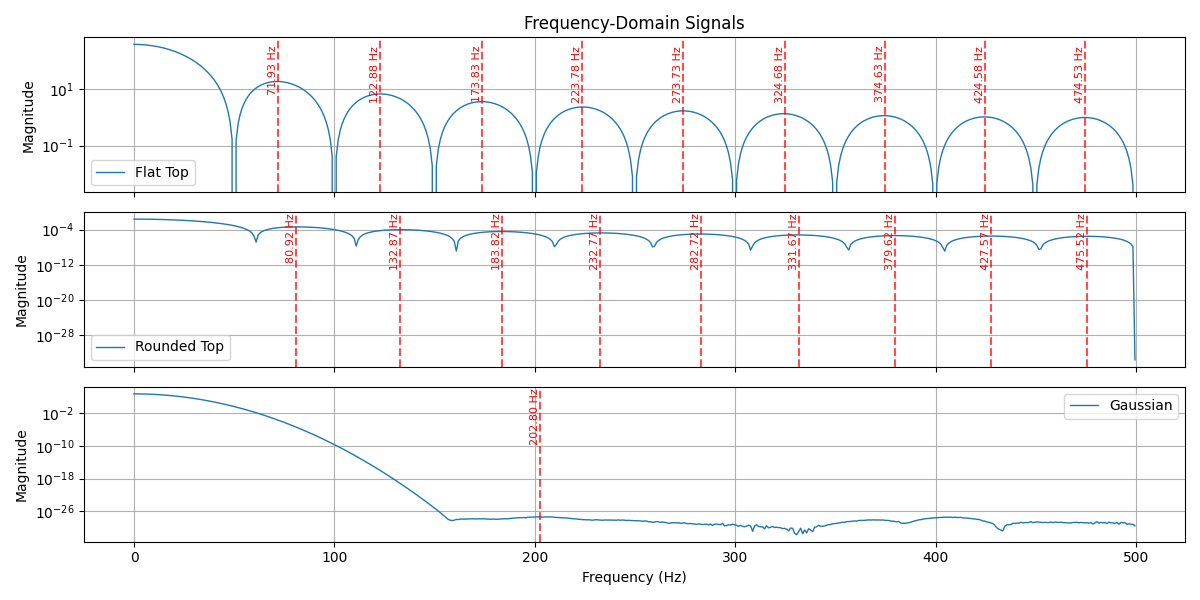
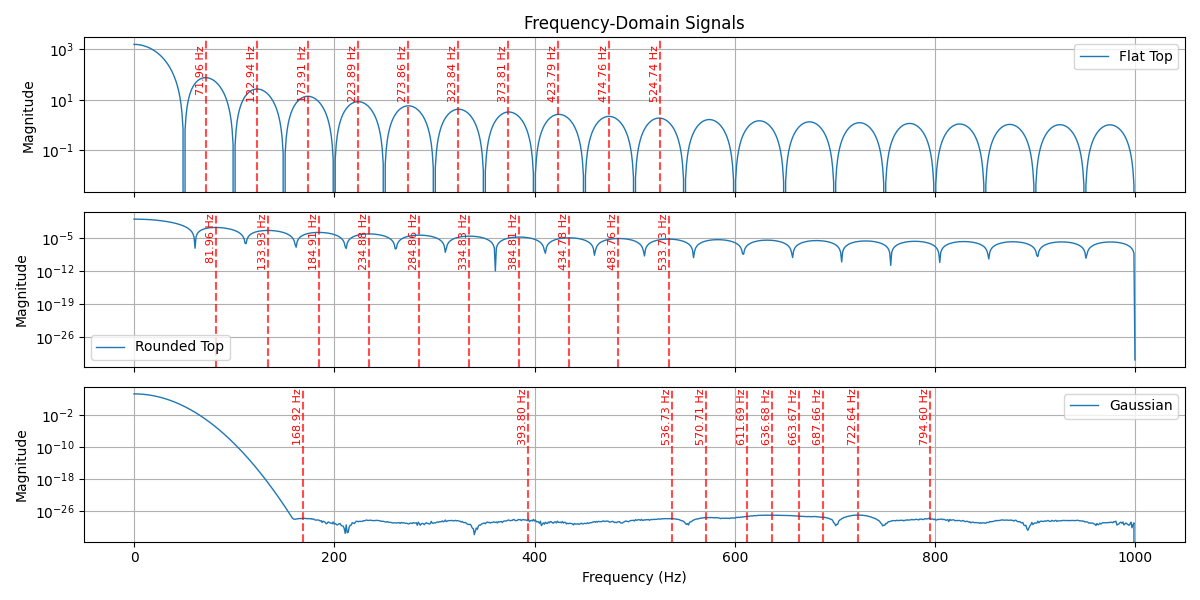
ex12p4

diff --git a/exercise12/piano_displace.py b/exercise12/piano_displace.py
@@ -23,26 +23,25 @@ def create_initial_string(l=1.0, n=1000, shape='flat', d=0.0):
     ## Create initial deformation
     y = np.zeros_like(x)
     if shape == 'flat':
-        y[np.abs(x) <= w/2] = A
+        y[np.abs(x - d) <= w/2] = A
     elif shape == 'round':
-        mask = np.abs(x) <= w/2
-        y[mask] = np.sqrt((w/2)**2 - x[mask]**2)
+        mask = np.abs(x - d) <= w/2
+        y[mask] = np.sqrt((w/2)**2 - (x[mask]-d)**2)
     elif shape == 'gaussian':
-        y = A * np.exp(-(4 * np.log(2) * x**2) / w**2)
+        y = A * np.exp(-(4 * np.log(2) * (x-d)**2) / w**2)
     else:
         raise ValueError("Invalid shape. Choose from 'flat', 'round', or 'gaussian'.")
     ## Switch into dimensionless units z = x / l
-    z = (x - d) / l
+    z = x / l
     
     ## Return as Nx2 array
     return np.column_stack((z, y))
 
 
 ## Create initial string shapes
-flat_string = create_initial_string(l=1.0, n=1000, shape='flat', d=-0.4)
-round_string = create_initial_string(l=1.0, n=1000, shape='round', d=0.4)
-gaussian_string = create_initial_string(l=1.0, n=1000, shape='gaussian', d=-0.3)
-
+##flat_string = create_initial_string(l=1.0, n=2000, shape='flat', d=0.0)
+##round_string = create_initial_string(l=1.0, n=2000, shape='round', d=0.0)
+##gaussian_string = create_initial_string(l=1.0, n=2000, shape='gaussian', d=-0.45)
 
 
 def test_initial_string_shapes():
@@ -66,7 +65,7 @@ def test_initial_string_shapes():
     plt.savefig('displaced_string_shapes.png')
 
 
-test_initial_string_shapes()
+## test_initial_string_shapes()
 
 ## Compute multiple frequency-domain signals using FFT
 def compute_all_fft(signals):
@@ -96,13 +95,7 @@ def plot_frequency_domain(fsignals, labels, filename, peaks, res):
     for ax, signal, label, k, r in zip(axs, fsignals, labels, peaks, res):
         if signal is not None:
             ## Detect principal frequencies
-            principal_freqs = detect_principal_frequencies(signal, k=k, res=r)
-
-            ## Find matching magnitudes
-            magnitudes = []
-            for pf in principal_freqs:
-                idx = np.argmin(np.abs(signal[:, 0] - pf))
-                magnitudes.append(signal[idx, 1])
+            principal_freqs, magnitudes = detect_principal_frequencies(signal, k=k, res=r)
 
             ## Print principal frequencies and their magnitudes with 1 decimal place
             print(f'Principal frequencies for {label}: {[f"{pf:.1f}" for pf in principal_freqs]}')
@@ -130,7 +123,7 @@ def plot_frequency_domain(fsignals, labels, filename, peaks, res):
 
 
 ## Walk through the frequency spectrum and list an alternating sequence of local maxima and minima in between.
-## Return the k highest local maxima that are at least res Hz apart.
+## Return the k highest local maxima that are at least res Hz apart and the corresponding magnitudes.
 def detect_principal_frequencies(signal, k=5, res=20):
     xf = signal[:, 0]
     yf = signal[:, 1]
@@ -145,20 +138,49 @@ def detect_principal_frequencies(signal, k=5, res=20):
     # Sort local maxima by magnitude
     local_maxima.sort(key=lambda x: x[1], reverse=True)
     principal_freqs = []
+    magnitudes = []
     for freq, mag in local_maxima:
         if all(abs(freq - pf) >= res for pf in principal_freqs):
             principal_freqs.append(freq)
+            magnitudes.append(mag)
         if len(principal_freqs) >= k:
             break
-    return principal_freqs
+
+    return principal_freqs, magnitudes
 
 
 ## Compute FFT of all signals
-[flat_f, round_f, gaussian_f] = compute_all_fft([flat_string, round_string, gaussian_string])
+## [flat_f, round_f, gaussian_f] = compute_all_fft([flat_string, round_string, gaussian_string])
 
 ## Plot frequency-domain signals
-plot_frequency_domain([flat_f, round_f, gaussian_f], 
-                      ['Flat Top', 'Rounded Top', 'Gaussian'], 
-                      'displaced_hammer_frequency_domain.png', 
-                      peaks=[9, 9, 1], res=[20, 20, 20])
+## plot_frequency_domain([flat_f, round_f, gaussian_f], 
+##                      ['Flat Top', 'Rounded Top', 'Gaussian'], 
+##                      'displaced_hammer_frequency_domain.png', 
+##                      peaks=[10, 10, 10], res=[20, 20, 20])
 
+
+## Create a graph with peak displacement in x and magnitude of the first harmonic in y.
+## Vary the initial displacement between -0.45 and 0.45 in steps of 0.05.
+def plot_peak_displacement_vs_first_harmonic(shape='flat'):
+    displacements = np.arange(-0.45, 0.46, 0.01)
+    peak_displacements = []
+    first_harmonic_magnitudes = []
+    for d in displacements:
+        string = create_initial_string(l=1.0, n=2000, shape=shape, d=d)
+        fsignal = compute_fft(string)
+        principal_freqs, magnitudes = detect_principal_frequencies(fsignal, k=1, res=20)
+        peak_displacements.append(d)
+        first_harmonic_magnitudes.append(magnitudes[0] if magnitudes else 0)
+
+    plt.figure(figsize=(10, 6))
+    plt.plot(peak_displacements, first_harmonic_magnitudes, marker='o')
+    plt.title('Peak Displacement vs First Harmonic Magnitude ' + shape + ' hammer')
+    plt.xlabel('Peak Displacement (m)')
+    plt.ylabel('First Harmonic Magnitude')
+    plt.grid()
+    plt.savefig('peak_displacement_vs_first_harmonic_' + shape + '.png')
+
+
+plot_peak_displacement_vs_first_harmonic('flat')
+plot_peak_displacement_vs_first_harmonic('round')
+plot_peak_displacement_vs_first_harmonic('gaussian')
